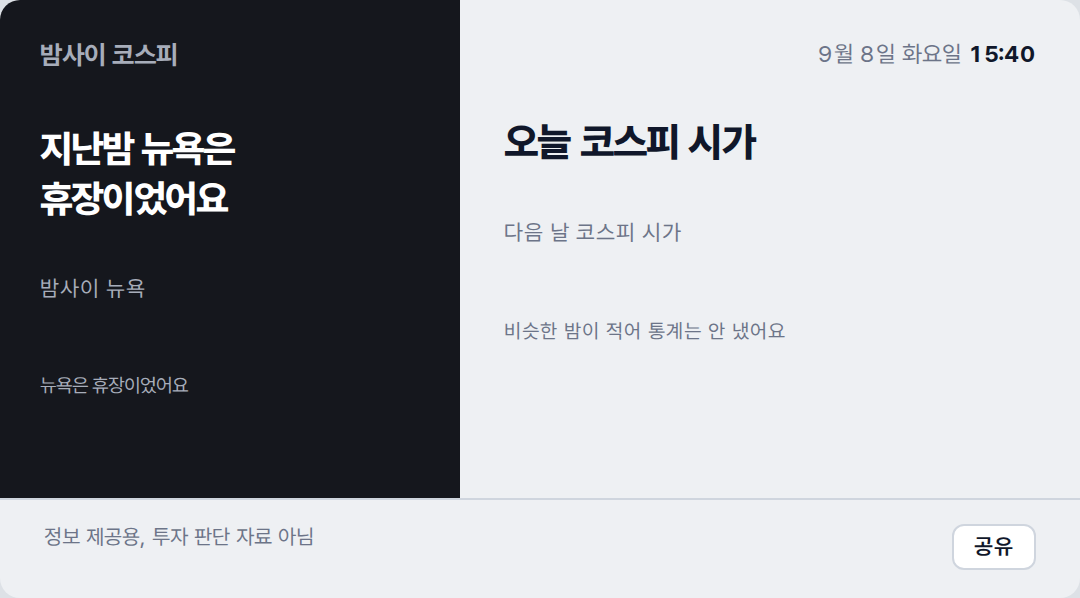
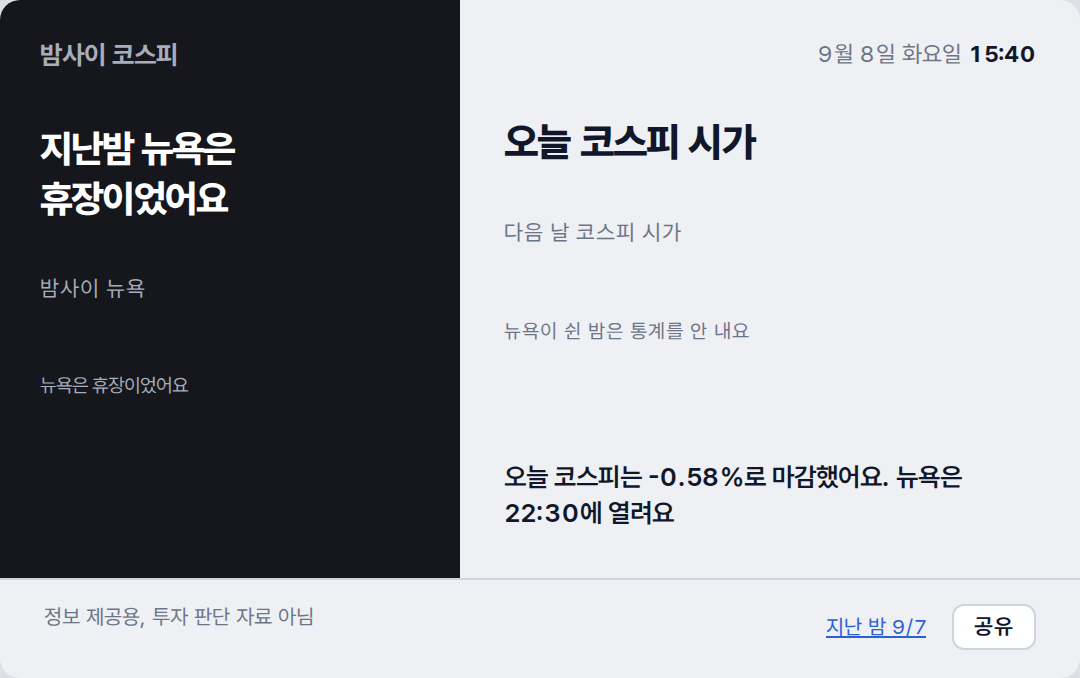
deploy: 5e77baab030050748d079db08b0ed74d5893cc9c

diff --git a/index.html b/index.html
@@ -29,9 +29,9 @@ footer a{color:#2C5FD6}
 <section class="night"><p class="brand">밤사이 코스피</p><p class="cond">지난밤 뉴욕은 휴장이었어요</p><p class="lab">밤사이 뉴욕</p><svg viewBox="0 0 236 84" xmlns="http://www.w3.org/2000/svg" font-family="var(--sans)" font-size="12">
 <text x="0" y="46" fill="var(--muted)">뉴욕은 휴장이었어요</text>
 </svg></section>
-<section class="day"><p class="stamp">9월 8일 화요일 <b>06:45</b></p><p class="claim">오늘 코스피 시가</p><p class="lab">다음 날 코스피 시가</p><svg viewBox="0 0 320 100" xmlns="http://www.w3.org/2000/svg" font-family="var(--sans)" font-size="12">
-<text x="0" y="46" fill="var(--muted)">비슷한 밤이 적어 통계는 안 냈어요</text>
-</svg></section>
+<section class="day"><p class="stamp">9월 8일 화요일 <b>15:40</b></p><p class="claim">오늘 코스피 시가</p><p class="lab">다음 날 코스피 시가</p><svg viewBox="0 0 320 100" xmlns="http://www.w3.org/2000/svg" font-family="var(--sans)" font-size="12">
+<text x="0" y="46" fill="var(--muted)">뉴욕이 쉰 밤은 통계를 안 내요</text>
+</svg><p class="tail">오늘 코스피는 -0.58%로 마감했어요. 뉴욕은 22:30에 열려요</p></section>
 <footer><span>정보 제공용, 투자 판단 자료 아님</span><span style="white-space:nowrap"><a href="./2026-09-07/">지난 밤 9/7</a> <button class="share" type="button">공유</button></span></footer>
 <script>
 /* 공유: Web Share가 있으면 시스템 공유 시트, 없으면 링크 복사. 링크는 이 날짜 페이지(OG 카드 붙음) */

diff --git a/2026-09-08/index.html b/2026-09-08/index.html
@@ -30,9 +30,9 @@ footer a{color:#2C5FD6}
 <text x="0" y="46" fill="var(--muted)">뉴욕은 휴장이었어요</text>
 </svg></section>
 <section class="day"><p class="stamp">9월 8일 화요일 <b>15:40</b></p><p class="claim">오늘 코스피 시가</p><p class="lab">다음 날 코스피 시가</p><svg viewBox="0 0 320 100" xmlns="http://www.w3.org/2000/svg" font-family="var(--sans)" font-size="12">
-<text x="0" y="46" fill="var(--muted)">비슷한 밤이 적어 통계는 안 냈어요</text>
-</svg></section>
-<footer><span>정보 제공용, 투자 판단 자료 아님</span><span style="white-space:nowrap"><button class="share" type="button">공유</button></span></footer>
+<text x="0" y="46" fill="var(--muted)">뉴욕이 쉰 밤은 통계를 안 내요</text>
+</svg><p class="tail">오늘 코스피는 -0.58%로 마감했어요. 뉴욕은 22:30에 열려요</p></section>
+<footer><span>정보 제공용, 투자 판단 자료 아님</span><span style="white-space:nowrap"><a href="../2026-09-07/">지난 밤 9/7</a> <button class="share" type="button">공유</button></span></footer>
 <script>
 /* 공유: Web Share가 있으면 시스템 공유 시트, 없으면 링크 복사. 링크는 이 날짜 페이지(OG 카드 붙음) */
 document.querySelector('.share').addEventListener('click', async function () {
